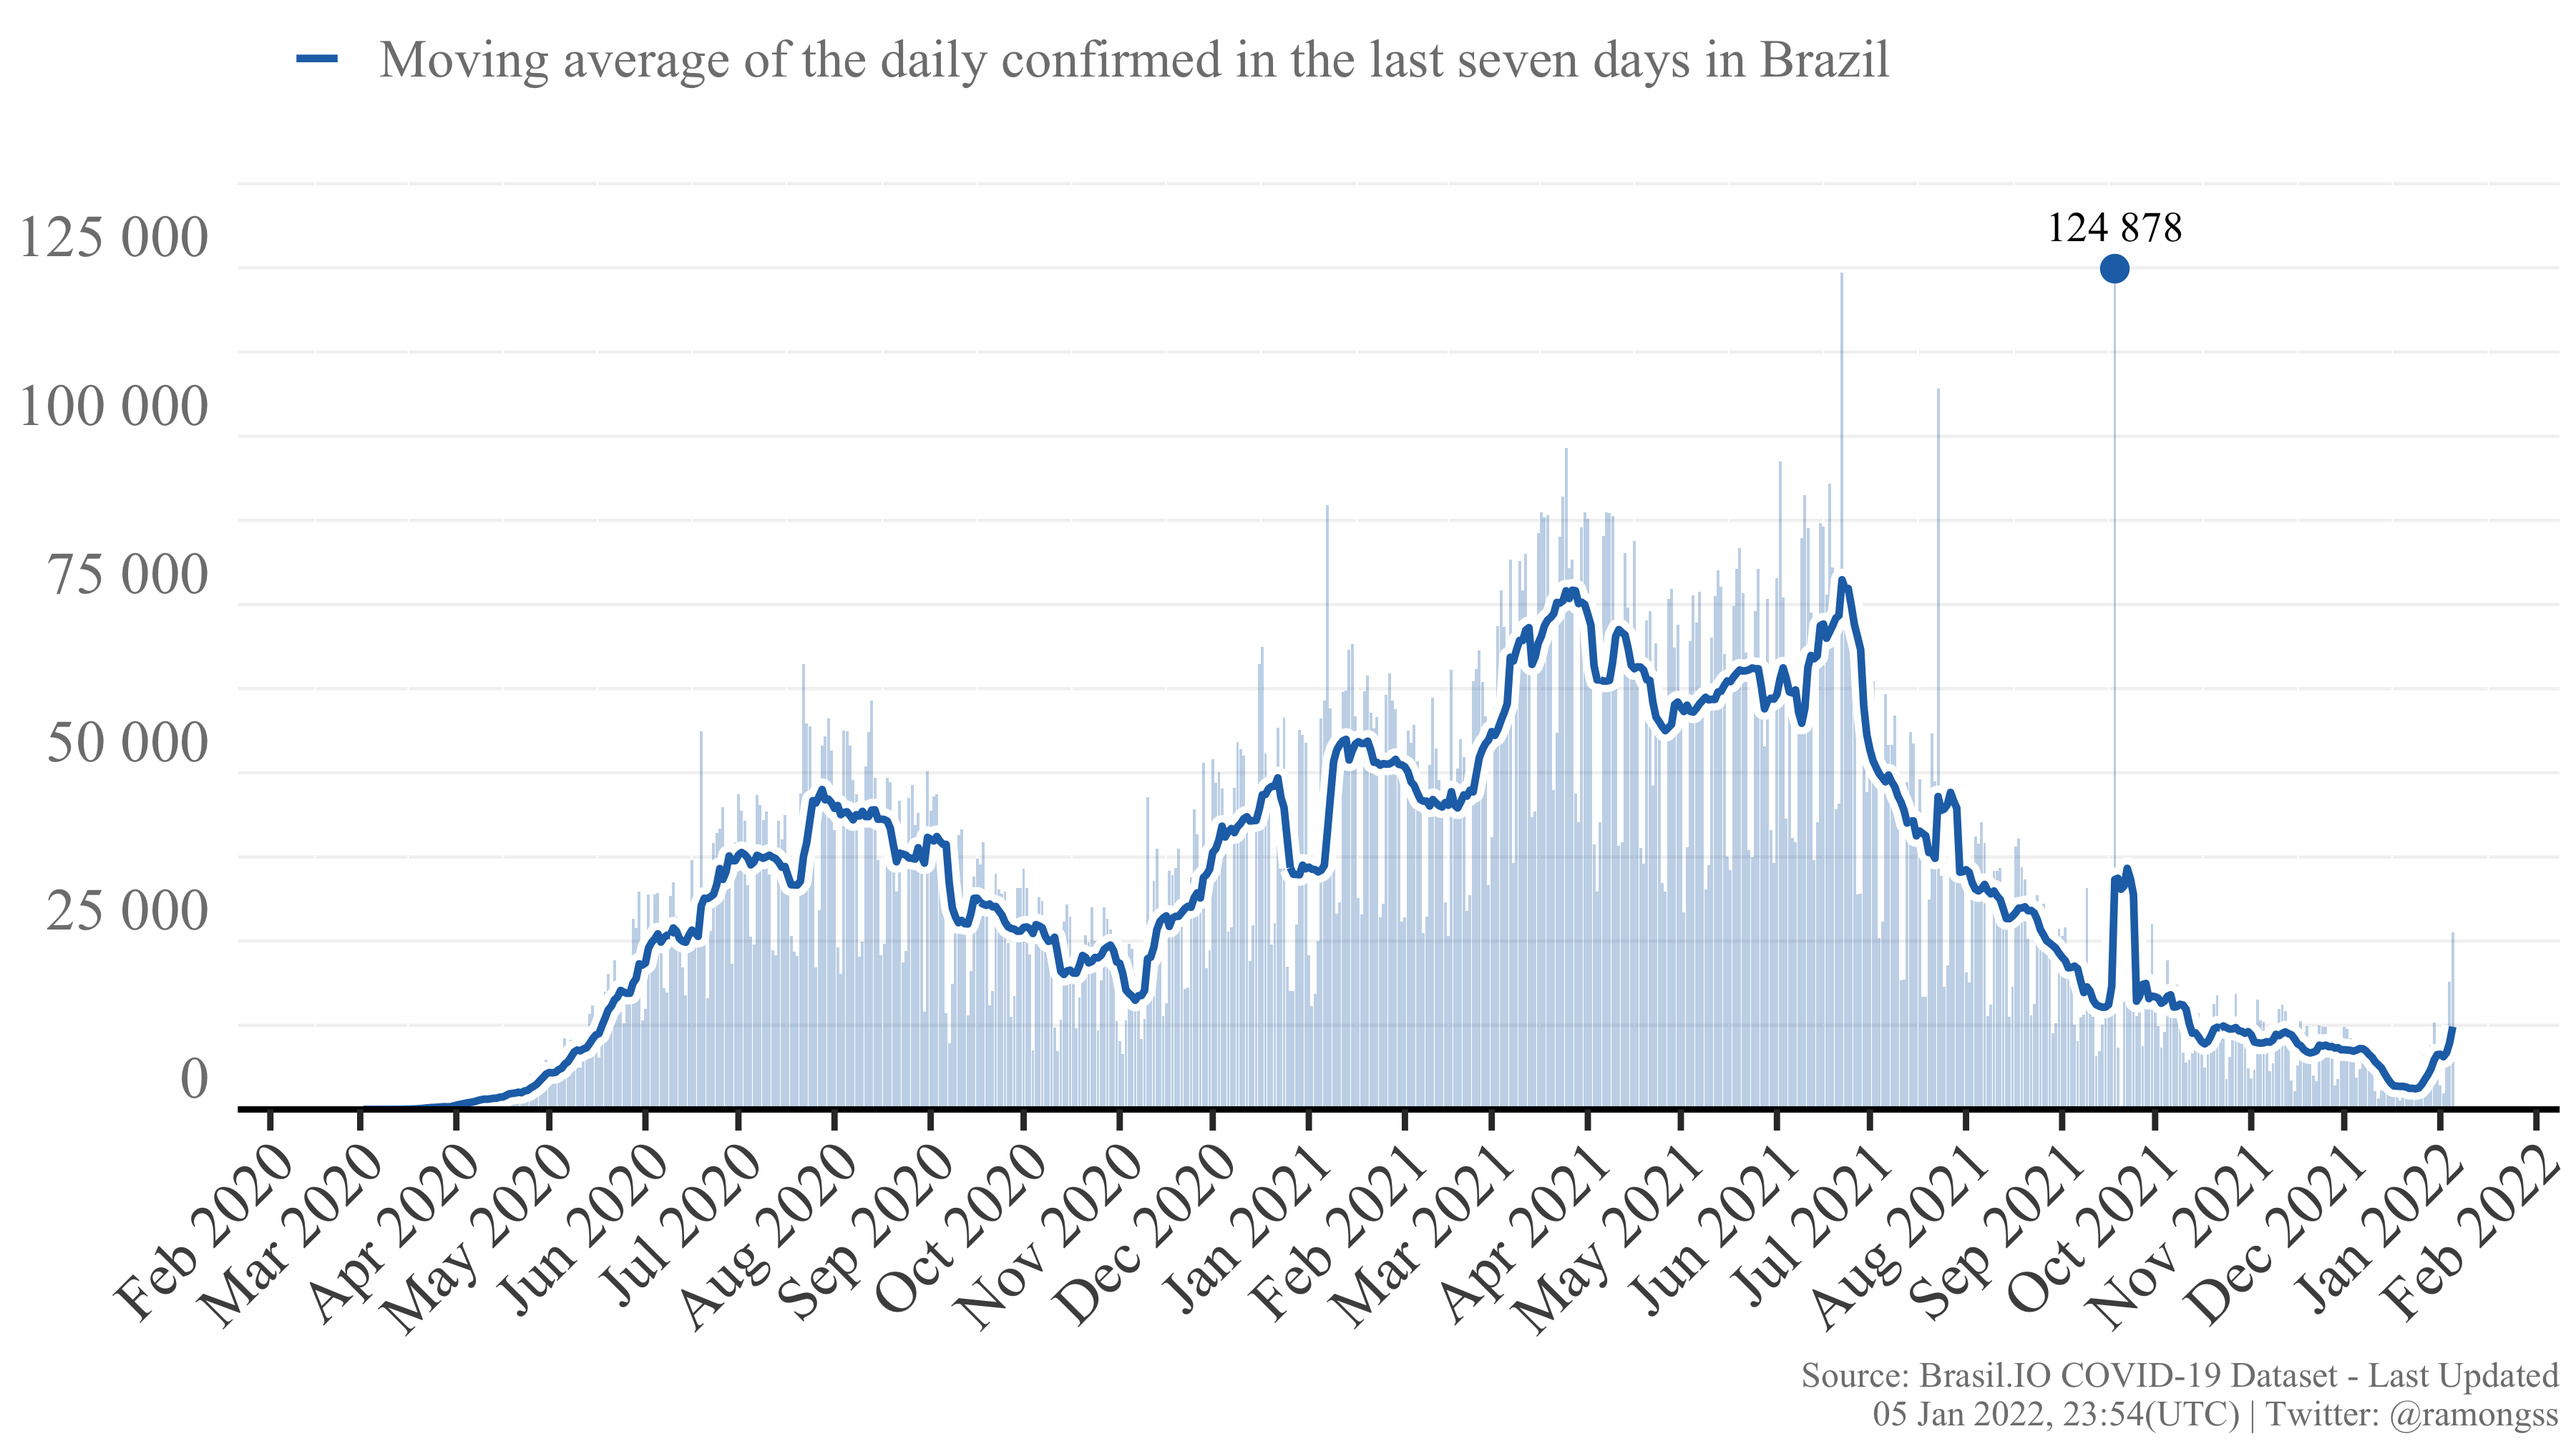
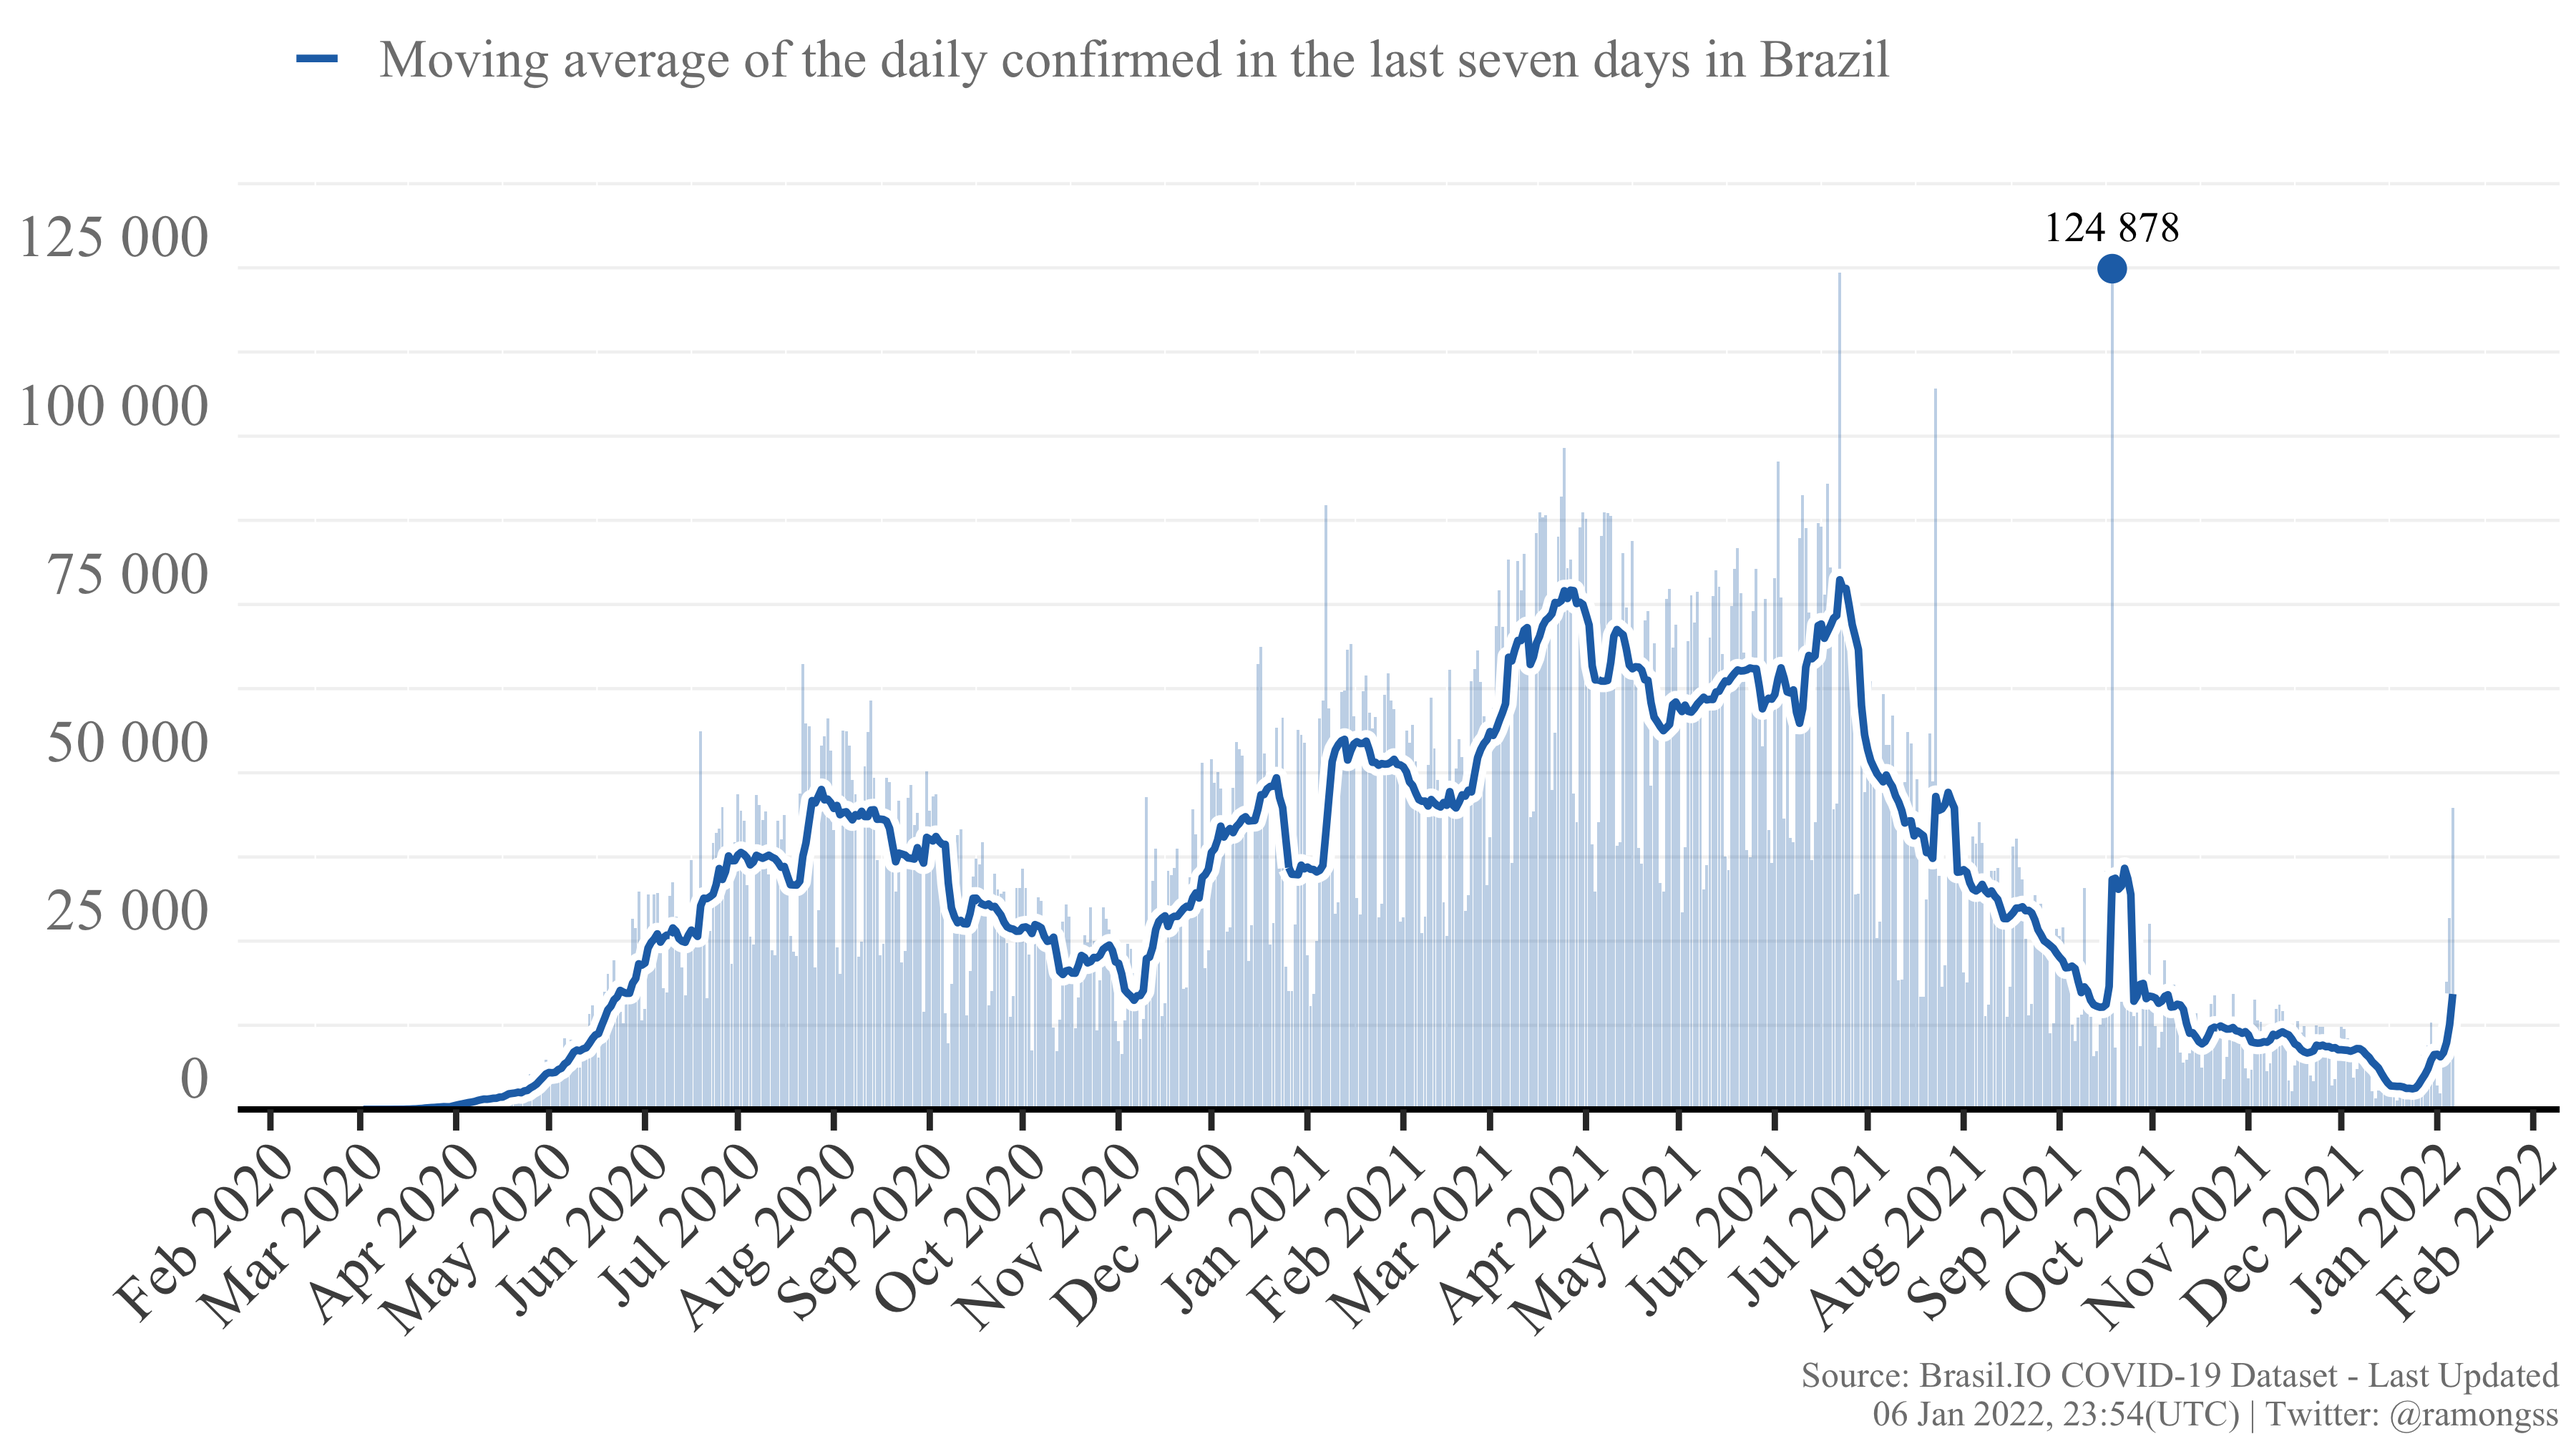
Re-build README.Rmd

diff --git a/README.md b/README.md
@@ -27,8 +27,8 @@ download_brasilio_table <- function(dataset = "covid19", table_name){
 
 ## COVID-19 Confirmed cases
 
-Currently, Brazil has a total of **22,355,622** confirmed cases at **05
-Jan, 2022**, with **26,272** new confirmed cases. The daily maximum
+Currently, Brazil has a total of **22,402,522** confirmed cases at **06
+Jan, 2022**, with **44,772** new confirmed cases. The daily maximum
 incidence was **124,878** confirmed cases at **18 Sep, 2021**. Here
 follows the Figure showing the confirmed case incidence as the bars, and
 the line as the moving average of the last 7 days.
@@ -37,8 +37,8 @@ the line as the moving average of the last 7 days.
 
 ## COVID-19 Deaths
 
-Currently, Brazil has a total of **619,784** deaths at **05 Jan, 2022**,
-with **122** new deaths. The daily maximum deaths incidence was
+Currently, Brazil has a total of **619,956** deaths at **06 Jan, 2022**,
+with **167** new deaths. The daily maximum deaths incidence was
 **4,148** deaths at **08 Apr, 2021**. Here follows the Figure showing
 the deaths incidence as the bars, and the line as the moving average of
 the last 7 days.
@@ -49,4 +49,4 @@ the last 7 days.
 
 This page is daily updated automatically using Github Actions.
 
-*Last update: 05 Jan 2022, 23:54 (UTC).*
+*Last update: 06 Jan 2022, 23:54 (UTC).*
